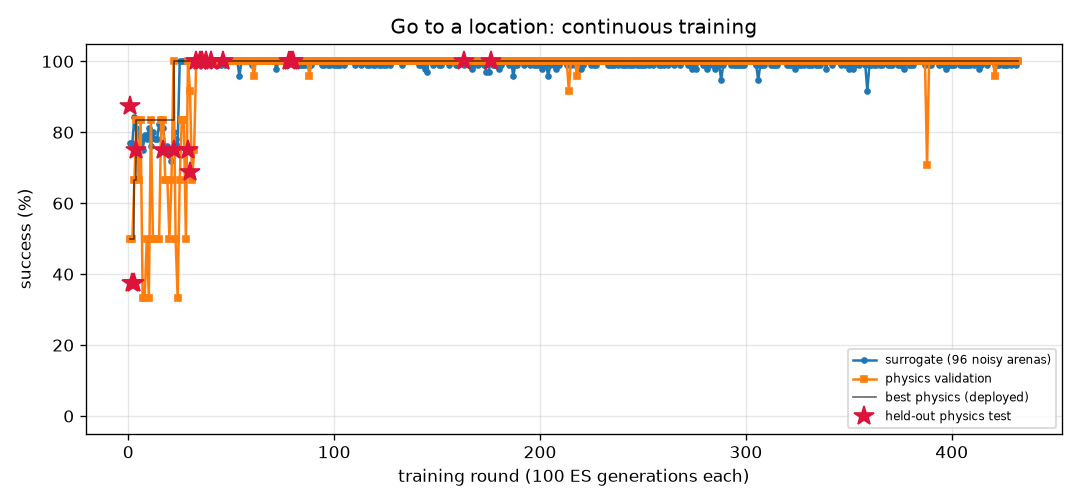
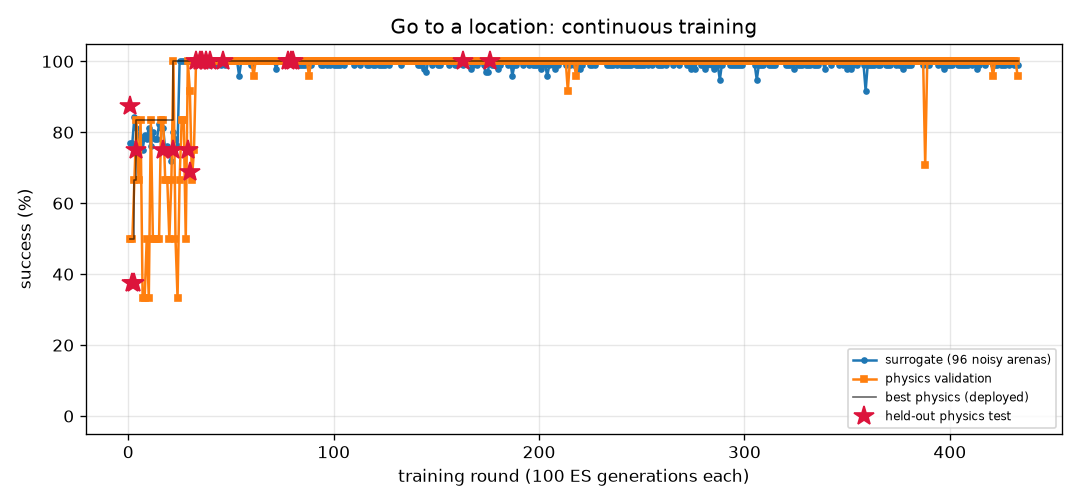
FlyLab: daily snapshot 2026-11-27
Daily entry in projects/09_flylab/training/daily/2026-11.md, plus 9 uncommitted training output file(s).

diff --git a/projects/09_flylab/training/light_seek/REPORT.md b/projects/09_flylab/training/light_seek/REPORT.md
@@ -1,14 +1,14 @@
 # Walk toward light (`light_seek`) — training report
 
-*Auto-generated by `train_brains.py`, last updated 2026-11-27T11:46:10.*
+*Auto-generated by `train_brains.py`, last updated 2026-11-27T12:03:13.*
 
 ![curve](curve.png)
 
 | | |
 |---|---|
-| rounds | 638 |
-| ES generations | 63800 |
-| physics runs | 12192 |
+| rounds | 639 |
+| ES generations | 63900 |
+| physics runs | 12216 |
 | status | **optimal** |
 | best brain | round 375: physics validation **100%** on 24 arenas, surrogate 100% |
 | held-out physics test | **100%** on 32 unseen arenas (95% CI 89%-100%) (errors: [0.57, 0.54, 0.53, 0.57, 0.55, 0.56, 0.59, 0.56, 0.53, 0.56, 0.71, 0.56, 0.55, 0.54, 0.53, 0.54, 0.54, 0.55, 0.52, 0.65, 0.64, 0.7, 0.58, 0.57, 0.6, 0.62, 0.55, 0.88, 0.54, 0.52, 0.62, 0.57]) |
@@ -17,7 +17,6 @@ Physics error per arena: mm from target at the end (< 1.5 and standing still = s
 
 | round | level | gens | sigma | surrogate | physics val | val errors | test | note |
 |---:|---:|---:|---:|---:|---:|---|---:|---|
-| 599 | 3 | 59900 | 0.024 | 100% | 100% | [0.9, 0.65, 1.18, 0.56, 0.54, 0.5, 0.53, 0.7, 0.92, 0.59, 0.54, 0.64, 0.55, 0.6, 0.58, 0.6, 0.51, 0.61, 0.53, 0.93, 0.92, 1.47, 0.57, 0.94] |  | restart from best |
 | 600 | 3 | 60000 | 0.024 | 100% | 96% | [0.57, 0.71, 0.53, 0.62, 0.53, 0.53, 1.18, 0.69, 0.61, 0.64, 0.56, 0.57, 0.62, 0.56, 2.4, 0.61, 0.56, 0.57, 0.54, 0.61, 1.36, 0.79, 0.54, 0.58] |  |  |
 | 601 | 3 | 60100 | 0.024 | 100% | 100% | [0.68, 0.61, 0.54, 0.63, 0.62, 0.52, 0.65, 0.54, 0.58, 0.61, 0.55, 0.56, 0.55, 0.71, 0.64, 0.69, 0.65, 0.54, 0.55, 0.56, 1.15, 0.68, 0.63, 0.9] |  |  |
 | 602 | 3 | 60200 | 0.024 | 100% | 96% | [0.58, 0.54, 0.58, 0.62, 0.55, 0.55, 0.53, 0.65, 0.69, 0.54, 0.6, 0.61, 0.55, 2.64, 0.62, 0.54, 0.59, 0.56, 0.52, 0.59, 0.53, 0.62, 0.57, 0.54] |  |  |
@@ -57,3 +56,4 @@ Physics error per arena: mm from target at the end (< 1.5 and standing still = s
 | 636 | 3 | 63600 | 0.024 | 100% | 100% | [0.65, 0.55, 0.68, 0.53, 0.59, 0.54, 0.55, 0.75, 0.49, 0.77, 0.66, 0.6, 0.65, 0.6, 0.62, 0.71, 0.75, 0.57, 0.62, 0.59, 0.55, 0.81, 0.6, 0.61] |  |  |
 | 637 | 3 | 63700 | 0.024 | 100% | 100% | [0.54, 0.56, 0.5, 0.47, 0.48, 0.56, 0.5, 0.53, 0.64, 0.64, 0.57, 1.27, 0.59, 0.57, 0.57, 0.61, 0.54, 0.61, 0.61, 0.47, 0.47, 0.71, 0.64, 0.54] |  |  |
 | 638 | 3 | 63800 | 0.024 | 100% | 100% | [0.55, 0.48, 0.5, 0.51, 0.45, 0.51, 0.43, 0.44, 0.55, 0.58, 0.47, 0.54, 0.46, 0.66, 0.54, 0.49, 0.43, 0.51, 0.65, 0.92, 0.53, 0.49, 0.44, 0.68] |  |  |
+| 639 | 3 | 63900 | 0.024 | 100% | 100% | [0.48, 0.52, 0.56, 0.45, 0.59, 0.5, 0.47, 0.45, 0.51, 0.45, 0.5, 0.54, 0.47, 0.44, 0.48, 0.51, 0.48, 0.5, 0.48, 0.45, 0.44, 0.6, 0.44, 0.56] |  | restart from best |

diff --git a/projects/09_flylab/training/goto/REPORT.md b/projects/09_flylab/training/goto/REPORT.md
@@ -1,14 +1,14 @@
 # Go to a location (`goto`) — training report
 
-*Auto-generated by `train_brains.py`, last updated 2026-11-26T23:54:47.*
+*Auto-generated by `train_brains.py`, last updated 2026-11-27T12:01:27.*
 
 ![curve](curve.png)
 
 | | |
 |---|---|
-| rounds | 432 |
-| ES generations | 43200 |
-| physics runs | 10318 |
+| rounds | 433 |
+| ES generations | 43300 |
+| physics runs | 10342 |
 | status | **optimal** |
 | best brain | round 176: physics validation **100%** on 24 arenas, surrogate 100% |
 | held-out physics test | **100%** on 32 unseen arenas (95% CI 89%-100%) (errors: [0.2, 0.32, 0.19, 0.24, 0.18, 0.2, 0.19, 0.17, 0.22, 0.23, 0.23, 0.26, 0.2, 0.19, 0.24, 0.23, 0.22, 0.24, 0.2, 0.22, 0.2, 0.2, 0.26, 0.19, 0.22, 0.18, 0.26, 0.22, 0.2, 0.26, 0.23, 0.23]) |
@@ -17,7 +17,6 @@ Physics error per arena: mm from target at the end (< 1.5 and standing still = s
 
 | round | level | gens | sigma | surrogate | physics val | val errors | test | note |
 |---:|---:|---:|---:|---:|---:|---|---:|---|
-| 393 | 3 | 39300 | 0.024 | 100% | 100% | [0.39, 0.39, 0.33, 0.4, 0.32, 0.38, 0.42, 0.42, 0.39, 0.35, 0.34, 0.4, 0.4, 0.35, 0.38, 0.37, 0.44, 0.36, 0.35, 0.38, 0.34, 0.38, 0.42, 0.42] |  |  |
 | 394 | 3 | 39400 | 0.024 | 99% | 100% | [0.63, 0.57, 0.47, 0.61, 0.46, 0.57, 0.57, 0.64, 0.65, 0.46, 0.52, 0.59, 0.67, 0.49, 0.5, 0.54, 0.62, 0.59, 0.46, 0.65, 0.5, 0.5, 0.63, 0.62] |  |  |
 | 395 | 3 | 39500 | 0.025 | 100% | 100% | [0.56, 0.58, 0.44, 0.49, 0.43, 0.49, 0.54, 0.56, 0.54, 0.42, 0.42, 0.46, 0.57, 0.47, 0.5, 0.49, 0.59, 0.49, 0.42, 0.53, 0.48, 0.41, 0.57, 0.53] |  |  |
 | 396 | 3 | 39600 | 0.024 | 99% | 100% | [0.45, 0.4, 0.41, 0.37, 0.3, 0.34, 0.4, 0.38, 0.43, 0.32, 0.33, 0.37, 0.42, 0.31, 0.36, 0.35, 0.44, 0.34, 0.3, 0.41, 0.33, 0.34, 0.43, 0.35] |  | restart from best |
@@ -57,3 +56,4 @@ Physics error per arena: mm from target at the end (< 1.5 and standing still = s
 | 430 | 3 | 43000 | 0.025 | 100% | 100% | [0.39, 0.4, 0.42, 0.34, 0.28, 0.33, 0.38, 0.38, 0.4, 0.28, 0.29, 0.33, 0.39, 0.32, 0.33, 0.33, 0.41, 0.32, 0.27, 0.36, 0.32, 0.28, 0.42, 0.33] |  |  |
 | 431 | 3 | 43100 | 0.024 | 99% | 100% | [0.7, 0.62, 0.48, 0.53, 0.48, 0.5, 0.6, 0.55, 0.55, 0.5, 0.48, 0.53, 0.59, 0.49, 0.57, 0.57, 0.69, 0.62, 0.48, 0.58, 0.54, 0.5, 0.67, 0.51] |  |  |
 | 432 | 3 | 43200 | 0.025 | 100% | 100% | [0.56, 0.52, 0.52, 0.42, 0.4, 0.4, 0.55, 0.43, 0.48, 0.41, 0.4, 0.41, 0.49, 0.41, 0.45, 0.45, 0.54, 0.41, 0.39, 0.47, 0.43, 0.41, 0.52, 0.4] |  | restart from best |
+| 433 | 3 | 43300 | 0.024 | 99% | 96% | [0.46, 0.43, 0.35, 0.41, 0.34, 0.37, 0.45, 0.42, 0.43, 0.37, 0.36, 0.4, 0.46, 2.4, 0.42, 0.23, 0.49, 0.37, 0.35, 0.48, 0.11, 0.37, 0.47, 0.4] |  |  |

diff --git a/projects/09_flylab/training/TRAINING.md b/projects/09_flylab/training/TRAINING.md
@@ -1,6 +1,6 @@
 # FlyLab brains — continuous training log
 
-*Auto-generated by `train_brains.py`, last updated 2026-11-27T11:46:10.*
+*Auto-generated by `train_brains.py`, last updated 2026-11-27T12:03:13.*
 
 Every skill has its own brain and its own training process: surrogate ES rounds, physics validation in MuJoCo, keep-the-best selection, and a held-out physics test that is never used for selection. See each skill's report for its full round-by-round history. Mastery is progressive: passing a level (100% physics validation, >=95% surrogate) doubles the validation and test arena sets; a brain is **optimal** once it holds up at level 3 (>=95% of 24 validation arenas) AND scores >=90% on the 32 held-out test arenas. Test columns show 95% Wilson confidence intervals.
 
@@ -8,8 +8,8 @@ Every skill has its own brain and its own training process: surrogate ES rounds,
 |---|---:|---:|---:|---:|---:|---:|---|
 | [Walk forward](walk_forward/REPORT.md) | 564 | 56400 | 13614 | 100% | 100% of 24 | 100% of 32 (CI 89-100%) | **optimal** |
 | [Turn in place](turn/REPORT.md) | 1405 | 140500 | 33966 | 100% | 100% of 24 | 97% of 32 (CI 84-99%) | **optimal** |
-| [Go to a location](goto/REPORT.md) | 432 | 43200 | 10318 | 100% | 100% of 24 | 100% of 32 (CI 89-100%) | **optimal** |
+| [Go to a location](goto/REPORT.md) | 433 | 43300 | 10342 | 100% | 100% of 24 | 100% of 32 (CI 89-100%) | **optimal** |
 | [Find food by smell](odor_seek/REPORT.md) | 349 | 34900 | 7870 | 100% | 100% of 24 | 100% of 32 (CI 89-100%) | **optimal** |
 | [Escape a bad smell](odor_avoid/REPORT.md) | 1176 | 117600 | 25530 | 97% | 100% of 24 | 97% of 32 (CI 84-99%) | **optimal** |
-| [Walk toward light](light_seek/REPORT.md) | 638 | 63800 | 12192 | 100% | 100% of 24 | 100% of 32 (CI 89-100%) | **optimal** |
+| [Walk toward light](light_seek/REPORT.md) | 639 | 63900 | 12216 | 100% | 100% of 24 | 100% of 32 (CI 89-100%) | **optimal** |
 | [Hide from light](light_avoid/REPORT.md) | 890 | 89000 | 21632 | 100% | 100% of 24 | 100% of 32 (CI 89-100%) | **optimal** |

diff --git a/projects/09_flylab/training/daily/2026-11.md b/projects/09_flylab/training/daily/2026-11.md
@@ -286,3 +286,18 @@ Written by daily_commit.py once a day.
 
 - training supervisor: running
 - commits in the last 24 h: 11 (latest `fa12018 22:27 FlyLab: continuous training progress`)
+
+## 2026-11-27 (Fri)
+
+| brain | state | level | physics val | test | round |
+|---|---|---|---|---|---|
+| walk_forward | optimal | 3 | 100% of 24 | 100% | 564 |
+| turn | optimal | 3 | 100% of 24 | 97% | 1405 |
+| goto | optimal | 3 | 100% of 24 | 100% | 433 |
+| odor_seek | optimal | 3 | 100% of 24 | 100% | 349 |
+| odor_avoid | optimal | 3 | 100% of 24 | 97% | 1176 |
+| light_seek | optimal | 3 | 100% of 24 | 100% | 639 |
+| light_avoid | optimal | 3 | 100% of 24 | 100% | 890 |
+
+- training supervisor: running
+- commits in the last 24 h: 17 (latest `eb959f7 11:55 FlyLab: continuous training progress`)
